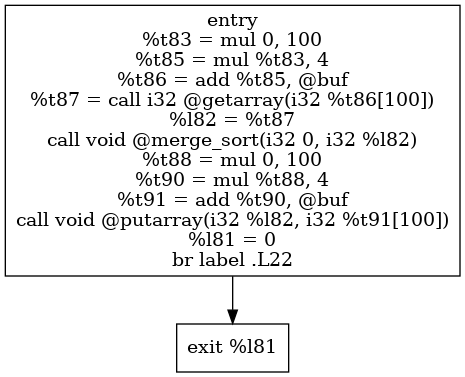
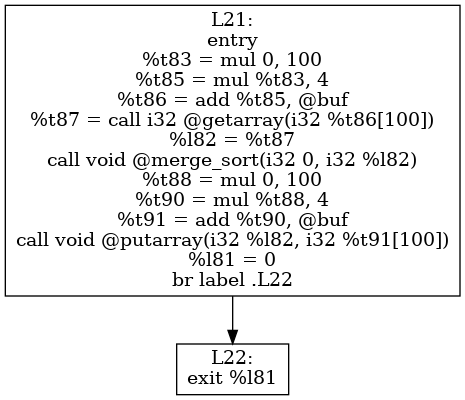
104/110:在绘制的CFG中添加block的label

Changed region(s): [[0.0, 0.0, 0.9935, 0.7586], [0.3914, 0.817, 0.6323, 0.9629]]

diff --git a/common/drawCFG/drawCFG.cpp b/common/drawCFG/drawCFG.cpp
@@ -36,6 +36,7 @@ bool CFG_Generator::func_define(const std::string & line)
 /// @return 翻译是否成功，true：成功，false：失败
 bool CFG_Generator::label(const std::string & line)
 {
+
     //取出label的名字
     std::istringstream iss(line);
     std::string label_name;
@@ -63,6 +64,10 @@ bool CFG_Generator::label(const std::string & line)
     auto new_block = getCurrentFunction()->newBlock();
     getCurrentFunction()->addEntry2Block(label_name, new_block);
     getCurrentFunction()->currentBlock = new_block;
+
+    // label塞入当前块内
+    auto ir_str = line.substr(1);
+    getCurrentFunction()->currentBlock->irInstructions.push_back(ir_str);
 
     return true;
 }
